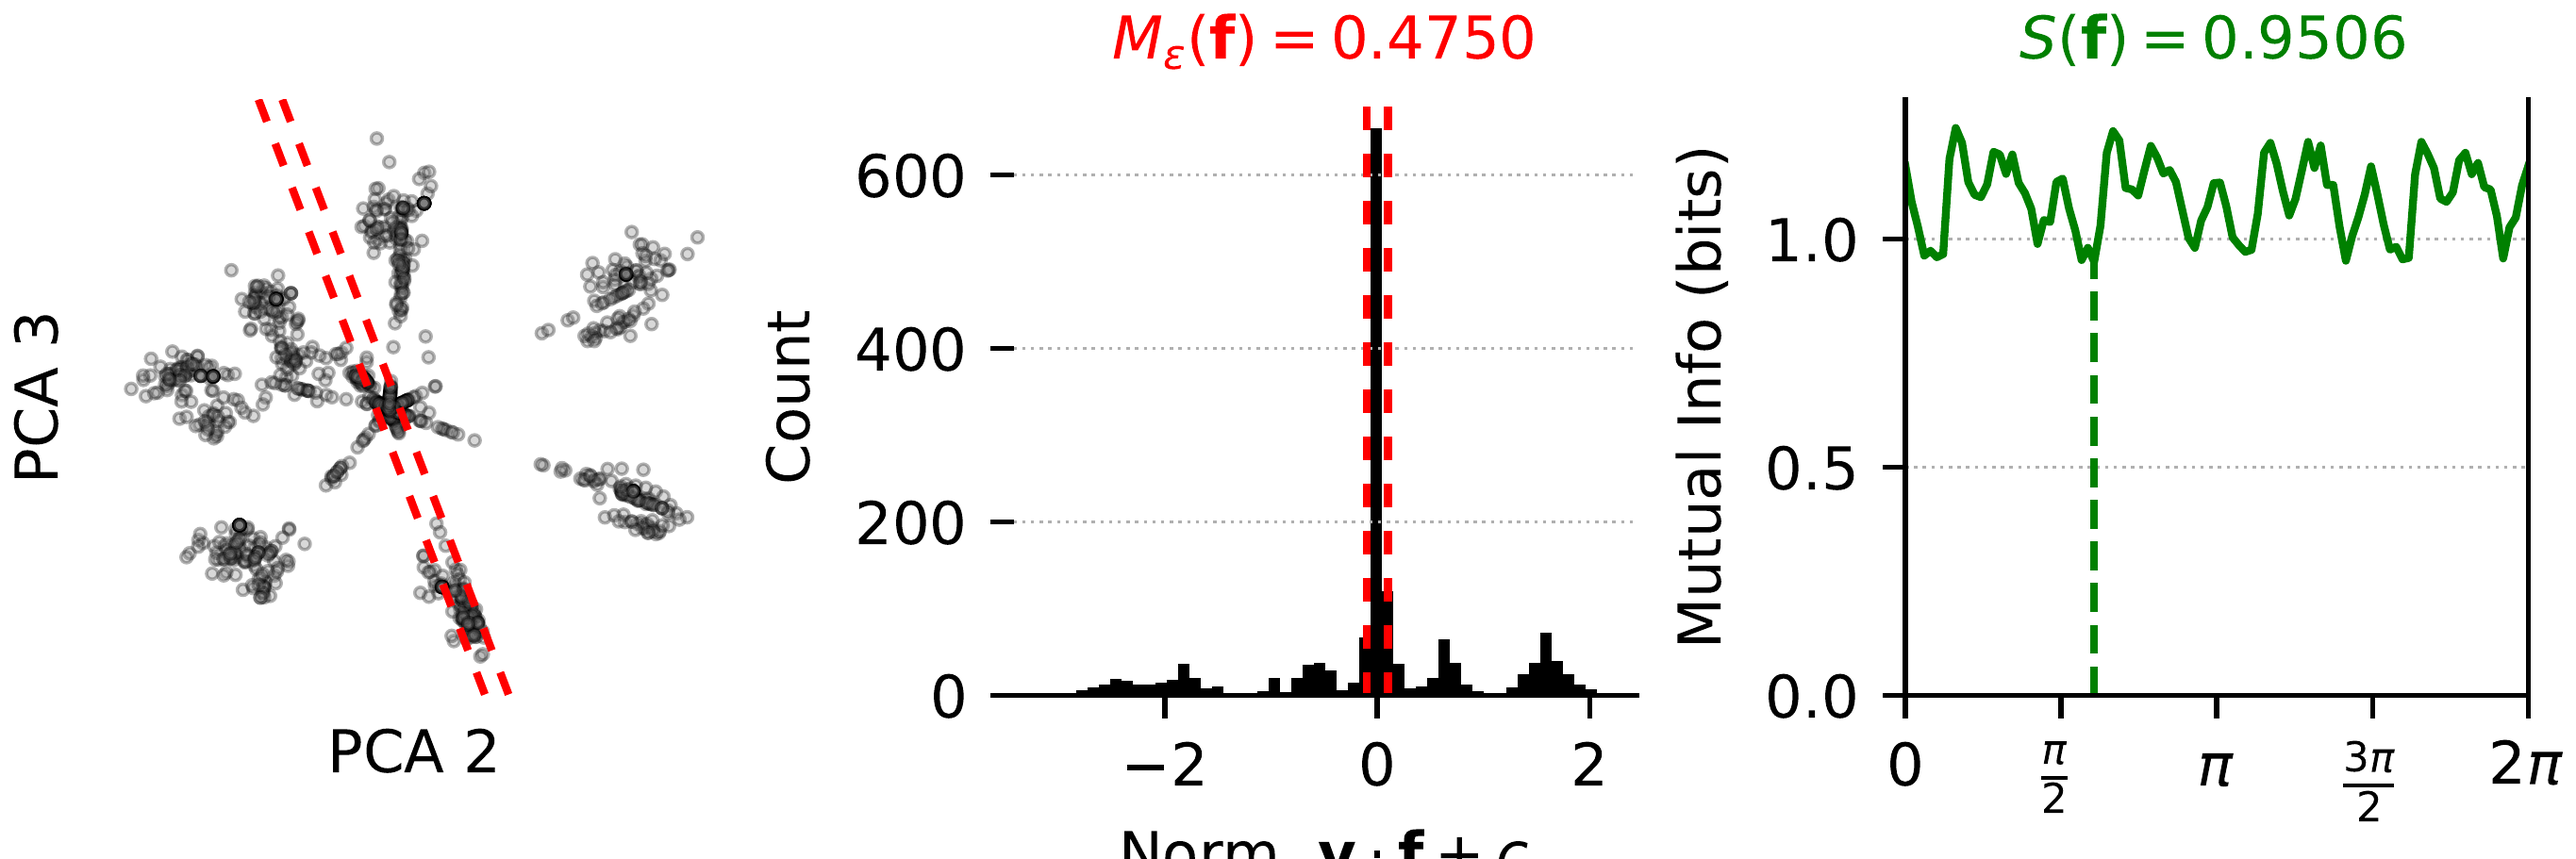
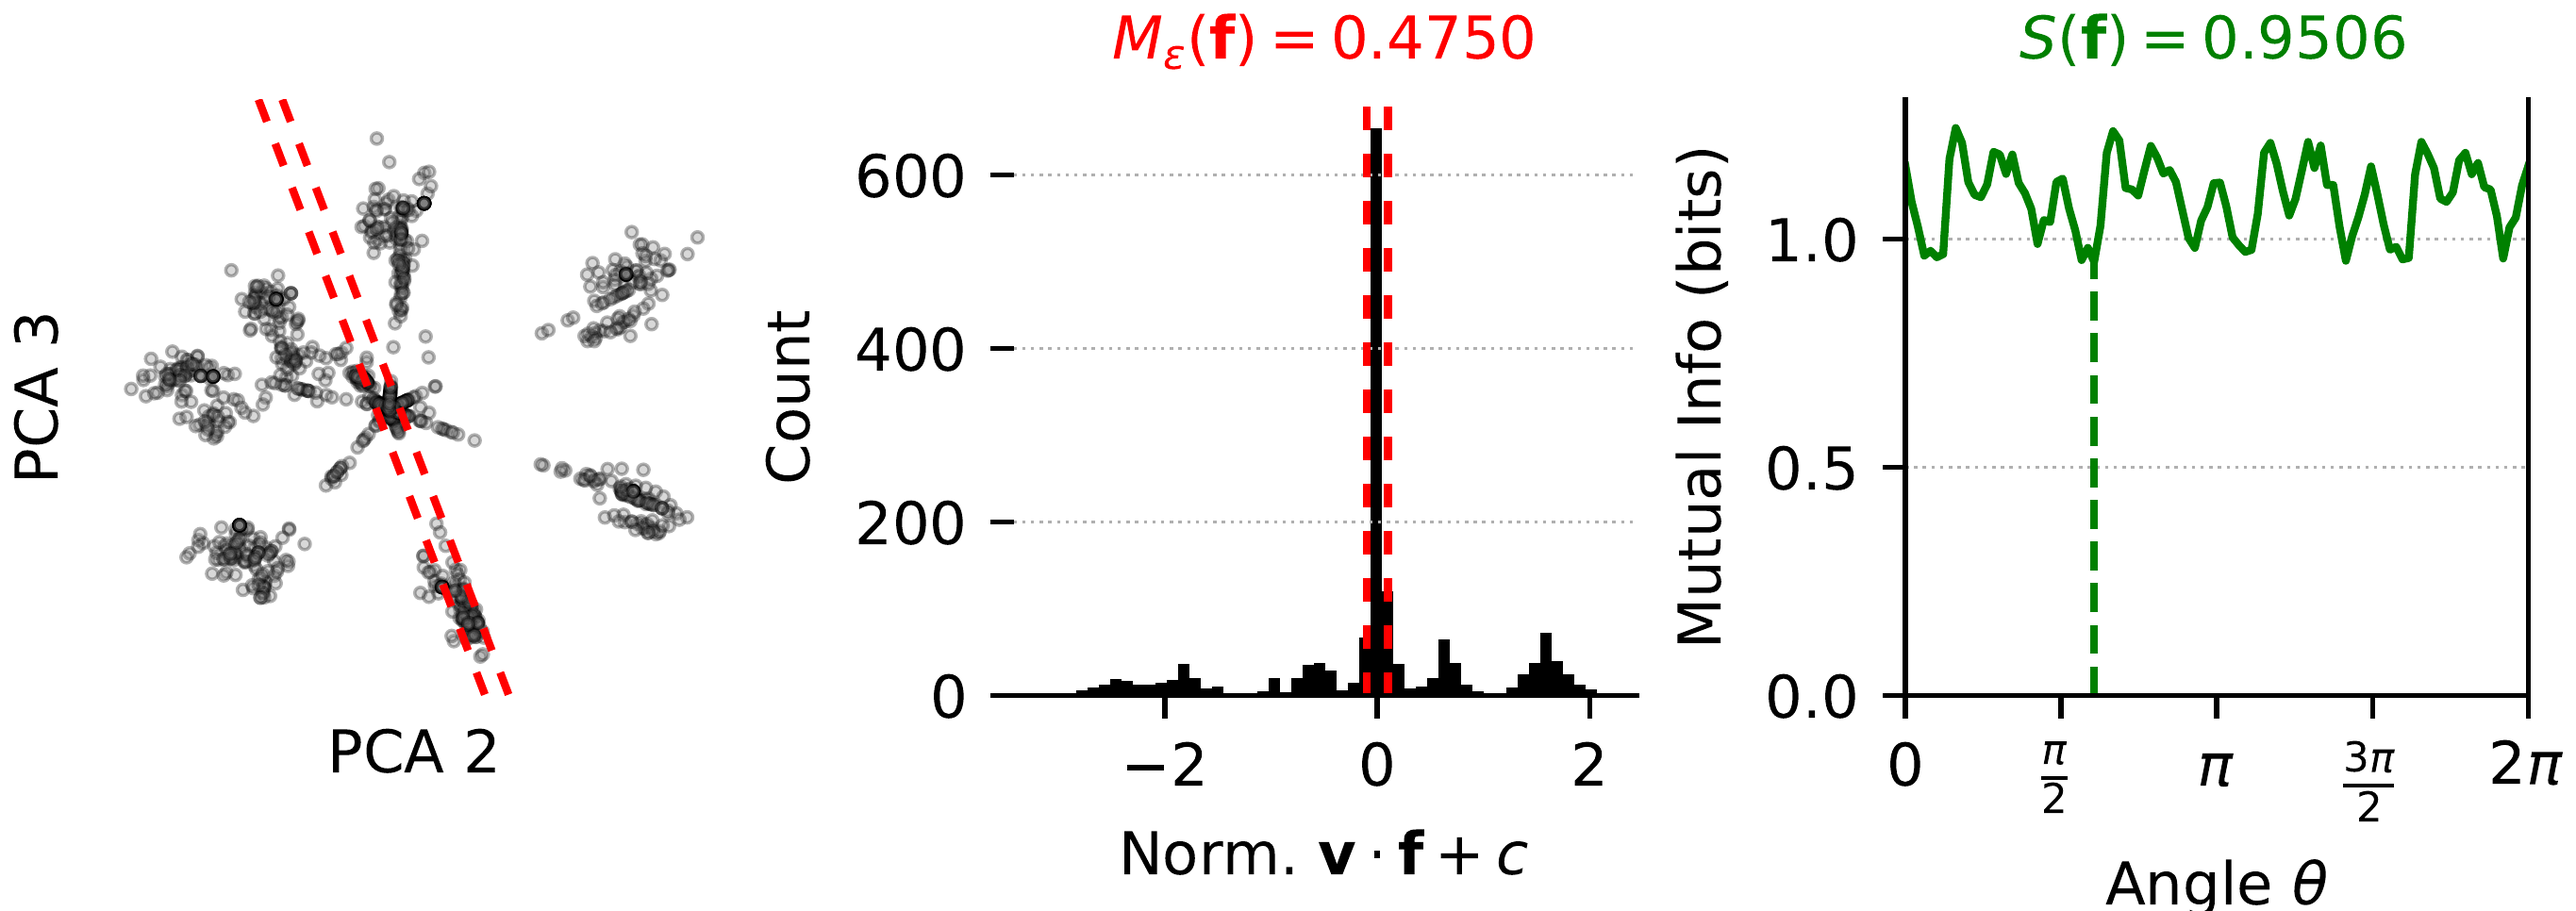
Fix paper figure crops

diff --git a/content/blog/paper-reading/ai-interpretability/not-all-language-model-features-are-one-dimensionally-linear.md b/content/blog/paper-reading/ai-interpretability/not-all-language-model-features-are-one-dimensionally-linear.md
@@ -7,7 +7,7 @@ category: "paper-reading"
 subcategory: "AI Interpretability"
 author: "Hiep Tran"
 featured: true
-readTime: 31
+readTime: 32
 paper:
   title: "Not All Language Model Features Are One-Dimensionally Linear"
   authors: "Joshua Engels et al."
